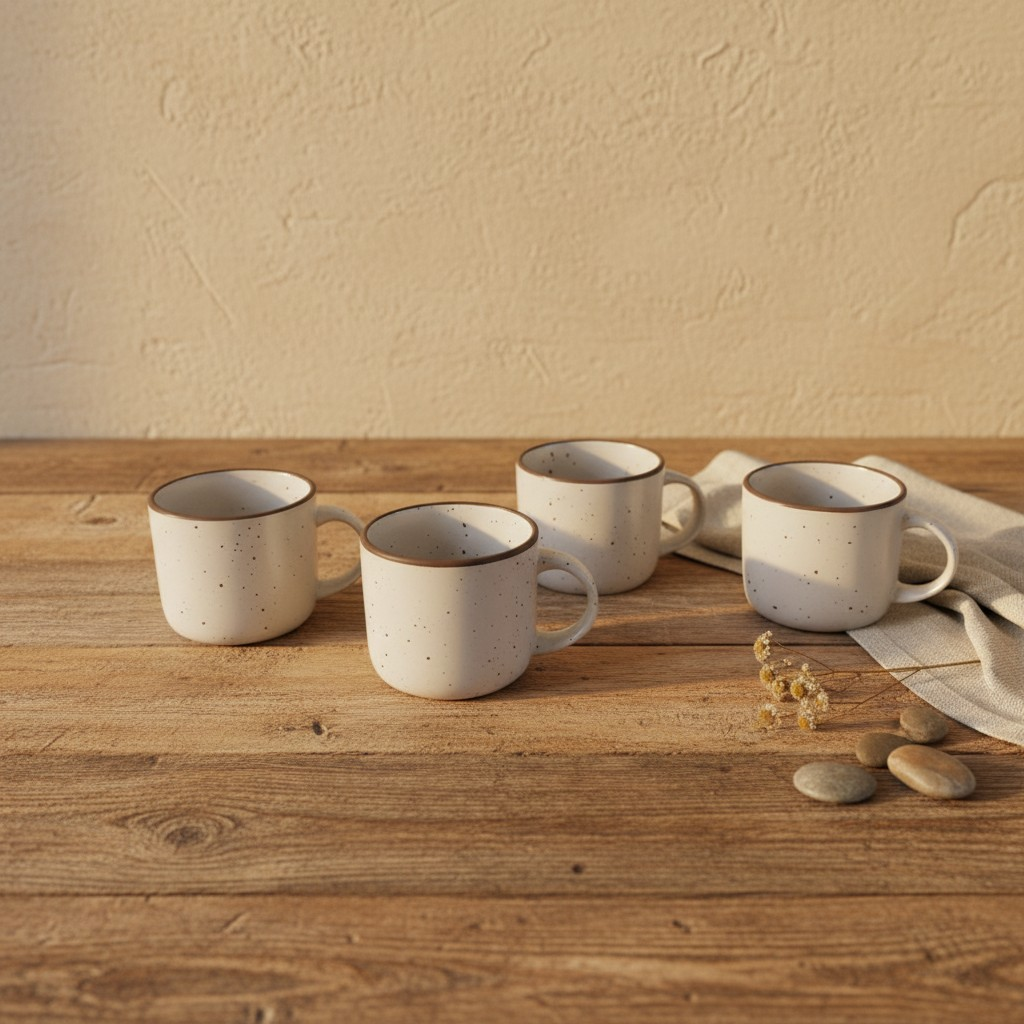
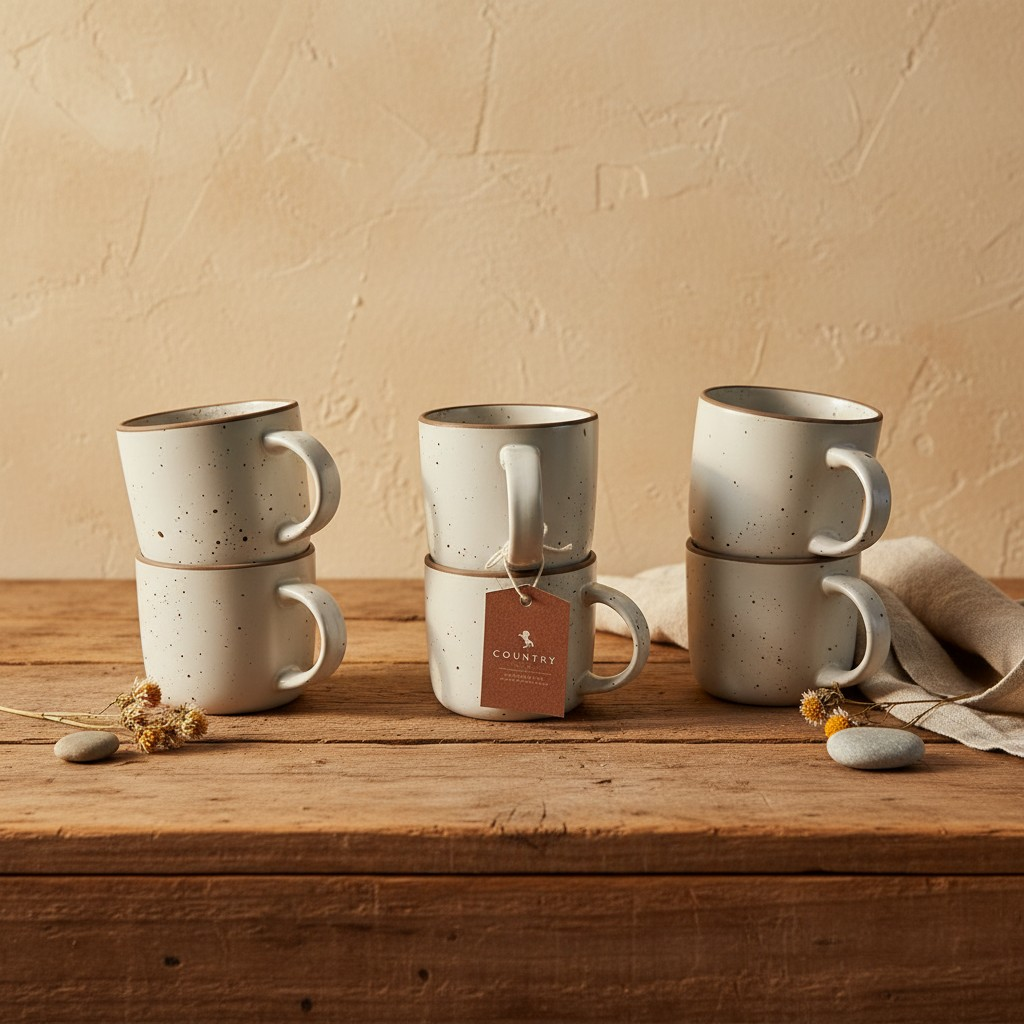
feat: fotos separadas x6/x4 para bowl y mug Cartago
bowl-cartago (x6): 4 fotos | bowl-cartago-x4: 4 fotos
mug-cartago (x6): 6 fotos | mug-cartago-x4: 8 fotos

diff --git a/index.html b/index.html
@@ -2058,10 +2058,10 @@ src="https://www.facebook.com/tr?id=1479825037203290&ev=PageView&noscript=1"/></
   <!-- ===== MESA & COCINA — MISHKA ===== -->
   <div class="product" id="plato-playo-cartago"><img loading="lazy" class="main-photo" src="FOTOS/mishka/plato-playo-cartago/1.jpg" alt="Plato Playo Cartago 27cm"><div class="thumbnails"><img loading="lazy" src="FOTOS/mishka/plato-playo-cartago/1.jpg" class="active" onmouseover="changeMain(this)"><img loading="lazy" src="FOTOS/mishka/plato-playo-cartago/2.jpg" onmouseover="changeMain(this)"><img loading="lazy" src="FOTOS/mishka/plato-playo-cartago/3.jpg" onmouseover="changeMain(this)"><img loading="lazy" src="FOTOS/mishka/plato-playo-cartago/4.jpg" onmouseover="changeMain(this)"></div><div class="product-info"><div class="product-name">Set x6 Platos Playos Cartago 27 cm</div><div class="product-desc">Porcelana · Línea Cartago Blanco Granite · Textura artesanal natural · 27 cm · Set de 6 unidades</div><div class="product-price">$119.999</div><span class="product-tag">Mesa & Cocina</span></div></div>
   <div class="product" id="plato-postre-cartago"><img loading="lazy" class="main-photo" src="FOTOS/mishka/plato-postre-cartago/1.jpg" alt="Plato Postre Cartago 21cm"><div class="thumbnails"><img loading="lazy" src="FOTOS/mishka/plato-postre-cartago/1.jpg" class="active" onmouseover="changeMain(this)"><img loading="lazy" src="FOTOS/mishka/plato-postre-cartago/2.jpg" onmouseover="changeMain(this)"><img loading="lazy" src="FOTOS/mishka/plato-postre-cartago/3.jpg" onmouseover="changeMain(this)"><img loading="lazy" src="FOTOS/mishka/plato-postre-cartago/4.jpg" onmouseover="changeMain(this)"><img loading="lazy" src="FOTOS/mishka/plato-postre-cartago/5.jpg" onmouseover="changeMain(this)"><img loading="lazy" src="FOTOS/mishka/plato-postre-cartago/6.jpg" onmouseover="changeMain(this)"><img loading="lazy" src="FOTOS/mishka/plato-postre-cartago/7.jpg" onmouseover="changeMain(this)"><img loading="lazy" src="FOTOS/mishka/plato-postre-cartago/8.jpg" onmouseover="changeMain(this)"></div><div class="product-info"><div class="product-name">Set x6 Platos Postre Cartago 21 cm</div><div class="product-desc">Porcelana · Línea Cartago Blanco Granite · Textura artesanal natural · 21 cm · Set de 6 unidades</div><div class="product-price">$92.999</div><span class="product-tag">Mesa & Cocina</span></div></div>
-  <div class="product" id="bowl-cartago"><img loading="lazy" class="main-photo" src="FOTOS/mishka/bowl-cartago/1.jpg" alt="Bowl Cartago 15cm"><div class="thumbnails"><img loading="lazy" src="FOTOS/mishka/bowl-cartago/1.jpg" class="active" onmouseover="changeMain(this)"><img loading="lazy" src="FOTOS/mishka/bowl-cartago/2.jpg" onmouseover="changeMain(this)"><img loading="lazy" src="FOTOS/mishka/bowl-cartago/3.jpg" onmouseover="changeMain(this)"><img loading="lazy" src="FOTOS/mishka/bowl-cartago/4.jpg" onmouseover="changeMain(this)"><img loading="lazy" src="FOTOS/mishka/bowl-cartago/5.jpg" onmouseover="changeMain(this)"><img loading="lazy" src="FOTOS/mishka/bowl-cartago/6.jpg" onmouseover="changeMain(this)"><img loading="lazy" src="FOTOS/mishka/bowl-cartago/7.jpg" onmouseover="changeMain(this)"><img loading="lazy" src="FOTOS/mishka/bowl-cartago/8.jpg" onmouseover="changeMain(this)"></div><div class="product-info"><div class="product-name">Set x6 Bowls Cartago 15 cm</div><div class="product-desc">Porcelana · Línea Cartago Blanco Granite · Ideal para cereales, sopas y postres · 15 cm · Set de 6 unidades</div><div class="product-price">$80.999</div><span class="product-tag">Mesa & Cocina</span></div></div>
-  <div class="product" id="bowl-cartago-x4"><img loading="lazy" class="main-photo" src="FOTOS/mishka/bowl-cartago/1.jpg" alt="Set x4 Bowls Cartago 15cm"><div class="thumbnails"><img loading="lazy" src="FOTOS/mishka/bowl-cartago/1.jpg" class="active" onmouseover="changeMain(this)"><img loading="lazy" src="FOTOS/mishka/bowl-cartago/2.jpg" onmouseover="changeMain(this)"><img loading="lazy" src="FOTOS/mishka/bowl-cartago/3.jpg" onmouseover="changeMain(this)"><img loading="lazy" src="FOTOS/mishka/bowl-cartago/4.jpg" onmouseover="changeMain(this)"><img loading="lazy" src="FOTOS/mishka/bowl-cartago/5.jpg" onmouseover="changeMain(this)"><img loading="lazy" src="FOTOS/mishka/bowl-cartago/6.jpg" onmouseover="changeMain(this)"><img loading="lazy" src="FOTOS/mishka/bowl-cartago/7.jpg" onmouseover="changeMain(this)"><img loading="lazy" src="FOTOS/mishka/bowl-cartago/8.jpg" onmouseover="changeMain(this)"></div><div class="product-info"><div class="product-name">Set x4 Bowls Cartago 15 cm</div><div class="product-desc">Porcelana · Línea Cartago Blanco Granite · Ideal para cereales, sopas y postres · 15 cm · Set de 4 unidades</div><div class="product-price">$54.999</div><span class="product-tag">Mesa & Cocina</span></div></div>
-  <div class="product" id="mug-cartago"><img loading="lazy" class="main-photo" src="FOTOS/mishka/mug-cartago/1.jpg" alt="Mug Cartago 450ml"><div class="thumbnails"><img loading="lazy" src="FOTOS/mishka/mug-cartago/1.jpg" class="active" onmouseover="changeMain(this)"><img loading="lazy" src="FOTOS/mishka/mug-cartago/2.jpg" onmouseover="changeMain(this)"><img loading="lazy" src="FOTOS/mishka/mug-cartago/3.jpg" onmouseover="changeMain(this)"><img loading="lazy" src="FOTOS/mishka/mug-cartago/4.jpg" onmouseover="changeMain(this)"><img loading="lazy" src="FOTOS/mishka/mug-cartago/5.jpg" onmouseover="changeMain(this)"><img loading="lazy" src="FOTOS/mishka/mug-cartago/6.jpg" onmouseover="changeMain(this)"><img loading="lazy" src="FOTOS/mishka/mug-cartago/7.jpg" onmouseover="changeMain(this)"><img loading="lazy" src="FOTOS/mishka/mug-cartago/8.jpg" onmouseover="changeMain(this)"></div><div class="product-info"><div class="product-name">Set x6 Mugs Cartago 450 ml</div><div class="product-desc">Porcelana · Línea Cartago Blanco Granite · Para café o té · 450 ml · Set de 6 unidades</div><div class="product-price">$65.999</div><span class="product-tag">Mesa & Cocina</span></div></div>
-  <div class="product" id="mug-cartago-x4"><img loading="lazy" class="main-photo" src="FOTOS/mishka/mug-cartago/1.jpg" alt="Set x4 Mugs Cartago 450ml"><div class="thumbnails"><img loading="lazy" src="FOTOS/mishka/mug-cartago/1.jpg" class="active" onmouseover="changeMain(this)"><img loading="lazy" src="FOTOS/mishka/mug-cartago/2.jpg" onmouseover="changeMain(this)"><img loading="lazy" src="FOTOS/mishka/mug-cartago/3.jpg" onmouseover="changeMain(this)"><img loading="lazy" src="FOTOS/mishka/mug-cartago/4.jpg" onmouseover="changeMain(this)"><img loading="lazy" src="FOTOS/mishka/mug-cartago/5.jpg" onmouseover="changeMain(this)"><img loading="lazy" src="FOTOS/mishka/mug-cartago/6.jpg" onmouseover="changeMain(this)"><img loading="lazy" src="FOTOS/mishka/mug-cartago/7.jpg" onmouseover="changeMain(this)"><img loading="lazy" src="FOTOS/mishka/mug-cartago/8.jpg" onmouseover="changeMain(this)"></div><div class="product-info"><div class="product-name">Set x4 Mugs Cartago 450 ml</div><div class="product-desc">Porcelana · Línea Cartago Blanco Granite · Para café o té · 450 ml · Set de 4 unidades</div><div class="product-price">$43.999</div><span class="product-tag">Mesa & Cocina</span></div></div>
+  <div class="product" id="bowl-cartago"><img loading="lazy" class="main-photo" src="FOTOS/mishka/bowl-cartago/1.jpg" alt="Bowl Cartago 15cm"><div class="thumbnails"><img loading="lazy" src="FOTOS/mishka/bowl-cartago/1.jpg" class="active" onmouseover="changeMain(this)"><img loading="lazy" src="FOTOS/mishka/bowl-cartago/2.jpg" onmouseover="changeMain(this)"><img loading="lazy" src="FOTOS/mishka/bowl-cartago/3.jpg" onmouseover="changeMain(this)"><img loading="lazy" src="FOTOS/mishka/bowl-cartago/4.jpg" onmouseover="changeMain(this)"></div><div class="product-info"><div class="product-name">Set x6 Bowls Cartago 15 cm</div><div class="product-desc">Porcelana · Línea Cartago Blanco Granite · Ideal para cereales, sopas y postres · 15 cm · Set de 6 unidades</div><div class="product-price">$80.999</div><span class="product-tag">Mesa & Cocina</span></div></div>
+  <div class="product" id="bowl-cartago-x4"><img loading="lazy" class="main-photo" src="FOTOS/mishka/bowl-cartago-x4/1.jpg" alt="Set x4 Bowls Cartago 15cm"><div class="thumbnails"><img loading="lazy" src="FOTOS/mishka/bowl-cartago-x4/1.jpg" class="active" onmouseover="changeMain(this)"><img loading="lazy" src="FOTOS/mishka/bowl-cartago-x4/2.jpg" onmouseover="changeMain(this)"><img loading="lazy" src="FOTOS/mishka/bowl-cartago-x4/3.jpg" onmouseover="changeMain(this)"><img loading="lazy" src="FOTOS/mishka/bowl-cartago-x4/4.jpg" onmouseover="changeMain(this)"></div><div class="product-info"><div class="product-name">Set x4 Bowls Cartago 15 cm</div><div class="product-desc">Porcelana · Línea Cartago Blanco Granite · Ideal para cereales, sopas y postres · 15 cm · Set de 4 unidades</div><div class="product-price">$54.999</div><span class="product-tag">Mesa & Cocina</span></div></div>
+  <div class="product" id="mug-cartago"><img loading="lazy" class="main-photo" src="FOTOS/mishka/mug-cartago/1.jpg" alt="Mug Cartago 450ml"><div class="thumbnails"><img loading="lazy" src="FOTOS/mishka/mug-cartago/1.jpg" class="active" onmouseover="changeMain(this)"><img loading="lazy" src="FOTOS/mishka/mug-cartago/2.jpg" onmouseover="changeMain(this)"><img loading="lazy" src="FOTOS/mishka/mug-cartago/3.jpg" onmouseover="changeMain(this)"><img loading="lazy" src="FOTOS/mishka/mug-cartago/4.jpg" onmouseover="changeMain(this)"><img loading="lazy" src="FOTOS/mishka/mug-cartago/5.jpg" onmouseover="changeMain(this)"><img loading="lazy" src="FOTOS/mishka/mug-cartago/6.jpg" onmouseover="changeMain(this)"></div><div class="product-info"><div class="product-name">Set x6 Mugs Cartago 450 ml</div><div class="product-desc">Porcelana · Línea Cartago Blanco Granite · Para café o té · 450 ml · Set de 6 unidades</div><div class="product-price">$65.999</div><span class="product-tag">Mesa & Cocina</span></div></div>
+  <div class="product" id="mug-cartago-x4"><img loading="lazy" class="main-photo" src="FOTOS/mishka/mug-cartago-x4/1.jpg" alt="Set x4 Mugs Cartago 450ml"><div class="thumbnails"><img loading="lazy" src="FOTOS/mishka/mug-cartago-x4/1.jpg" class="active" onmouseover="changeMain(this)"><img loading="lazy" src="FOTOS/mishka/mug-cartago-x4/2.jpg" onmouseover="changeMain(this)"><img loading="lazy" src="FOTOS/mishka/mug-cartago-x4/3.jpg" onmouseover="changeMain(this)"><img loading="lazy" src="FOTOS/mishka/mug-cartago-x4/4.jpg" onmouseover="changeMain(this)"><img loading="lazy" src="FOTOS/mishka/mug-cartago-x4/5.jpg" onmouseover="changeMain(this)"><img loading="lazy" src="FOTOS/mishka/mug-cartago-x4/6.jpg" onmouseover="changeMain(this)"><img loading="lazy" src="FOTOS/mishka/mug-cartago-x4/7.jpg" onmouseover="changeMain(this)"><img loading="lazy" src="FOTOS/mishka/mug-cartago-x4/8.jpg" onmouseover="changeMain(this)"></div><div class="product-info"><div class="product-name">Set x4 Mugs Cartago 450 ml</div><div class="product-desc">Porcelana · Línea Cartago Blanco Granite · Para café o té · 450 ml · Set de 4 unidades</div><div class="product-price">$43.999</div><span class="product-tag">Mesa & Cocina</span></div></div>
   <div class="product" id="plato-playo-portofino"><img loading="lazy" class="main-photo" src="FOTOS/mishka/plato-playo-portofino/1.jpg" alt="Plato Playo Portofino 26cm"><div class="thumbnails"><img loading="lazy" src="FOTOS/mishka/plato-playo-portofino/1.jpg" class="active" onmouseover="changeMain(this)"><img loading="lazy" src="FOTOS/mishka/plato-playo-portofino/2.jpg" onmouseover="changeMain(this)"><img loading="lazy" src="FOTOS/mishka/plato-playo-portofino/3.jpg" onmouseover="changeMain(this)"><img loading="lazy" src="FOTOS/mishka/plato-playo-portofino/4.jpg" onmouseover="changeMain(this)"><img loading="lazy" src="FOTOS/mishka/plato-playo-portofino/5.jpg" onmouseover="changeMain(this)"><img loading="lazy" src="FOTOS/mishka/plato-playo-portofino/6.jpg" onmouseover="changeMain(this)"><img loading="lazy" src="FOTOS/mishka/plato-playo-portofino/7.jpg" onmouseover="changeMain(this)"><img loading="lazy" src="FOTOS/mishka/plato-playo-portofino/8.jpg" onmouseover="changeMain(this)"></div><div class="product-info"><div class="product-name">Plato Playo Portofino 26 cm</div><div class="product-desc">Porcelana · Línea Portofino · Diseño elegante con acabado artesanal · 26 cm</div><div class="product-price">$21.999</div><span class="product-tag">Mesa & Cocina</span></div></div>
   <div class="product" id="plato-postre-portofino"><img loading="lazy" class="main-photo" src="FOTOS/mishka/plato-postre-portofino/1.jpg" alt="Plato Postre Portofino 22cm"><div class="thumbnails"><img loading="lazy" src="FOTOS/mishka/plato-postre-portofino/1.jpg" class="active" onmouseover="changeMain(this)"><img loading="lazy" src="FOTOS/mishka/plato-postre-portofino/2.jpg" onmouseover="changeMain(this)"><img loading="lazy" src="FOTOS/mishka/plato-postre-portofino/3.jpg" onmouseover="changeMain(this)"><img loading="lazy" src="FOTOS/mishka/plato-postre-portofino/4.jpg" onmouseover="changeMain(this)"><img loading="lazy" src="FOTOS/mishka/plato-postre-portofino/5.jpg" onmouseover="changeMain(this)"><img loading="lazy" src="FOTOS/mishka/plato-postre-portofino/6.jpg" onmouseover="changeMain(this)"><img loading="lazy" src="FOTOS/mishka/plato-postre-portofino/7.jpg" onmouseover="changeMain(this)"><img loading="lazy" src="FOTOS/mishka/plato-postre-portofino/8.jpg" onmouseover="changeMain(this)"></div><div class="product-info"><div class="product-name">Plato Postre Portofino 22 cm</div><div class="product-desc">Porcelana · Línea Portofino · Complemento perfecto para una mesa bien puesta · 22 cm</div><div class="product-price">$16.499</div><span class="product-tag">Mesa & Cocina</span></div></div>
   <div class="product" id="mug-portofino-400"><img loading="lazy" class="main-photo" src="FOTOS/mishka/mug-portofino-400/1.jpg" alt="Mug Portofino 400ml"><div class="thumbnails"><img loading="lazy" src="FOTOS/mishka/mug-portofino-400/1.jpg" class="active" onmouseover="changeMain(this)"><img loading="lazy" src="FOTOS/mishka/mug-portofino-400/2.jpg" onmouseover="changeMain(this)"><img loading="lazy" src="FOTOS/mishka/mug-portofino-400/3.jpg" onmouseover="changeMain(this)"><img loading="lazy" src="FOTOS/mishka/mug-portofino-400/4.jpg" onmouseover="changeMain(this)"><img loading="lazy" src="FOTOS/mishka/mug-portofino-400/5.jpg" onmouseover="changeMain(this)"><img loading="lazy" src="FOTOS/mishka/mug-portofino-400/6.jpg" onmouseover="changeMain(this)"><img loading="lazy" src="FOTOS/mishka/mug-portofino-400/7.jpg" onmouseover="changeMain(this)"><img loading="lazy" src="FOTOS/mishka/mug-portofino-400/8.jpg" onmouseover="changeMain(this)"></div><div class="product-info"><div class="product-name">Mug Portofino 400 ml</div><div class="product-desc">Porcelana · Línea Portofino · Diseño cálido y minimalista · 400 ml</div><div class="product-price">$8.999</div><span class="product-tag">Mesa & Cocina</span></div></div>
